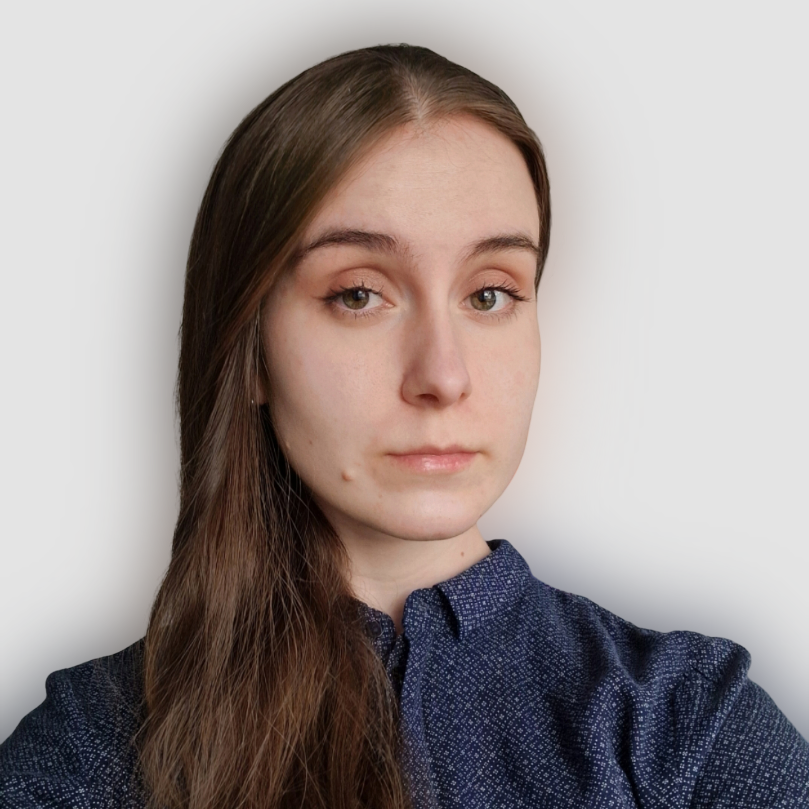
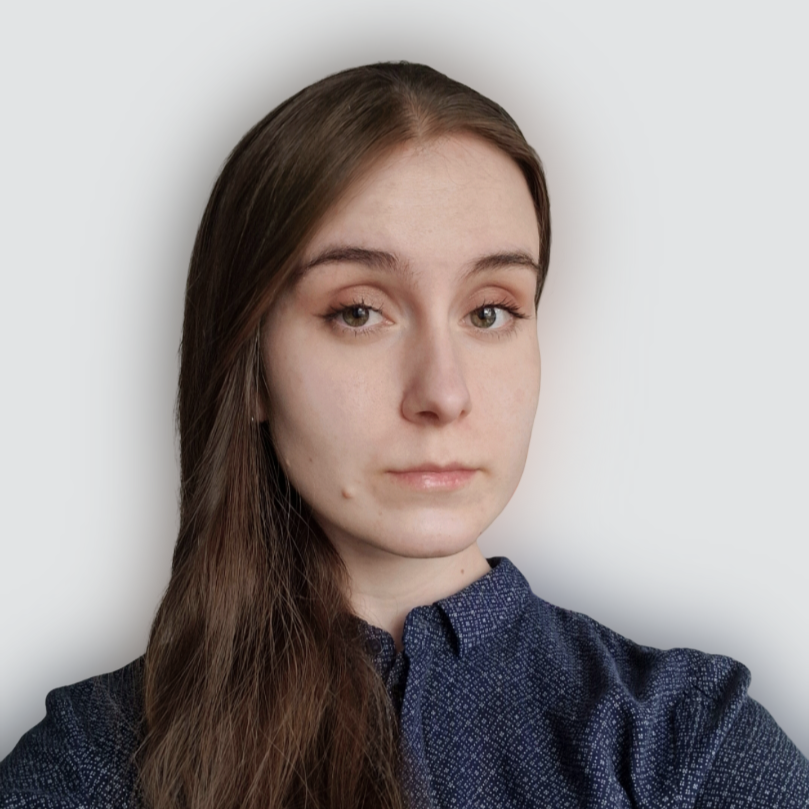
modified photos

Changed region(s): [[0.0, 0.0309, 1.0, 1.0], [0.6489, 0.4944, 0.6799, 0.5562]]

diff --git a/index.html b/index.html
@@ -49,7 +49,7 @@
       <h2 class="about__title" data-aos="fade-left">About me</h2>
       <hr class="section__title__hr">
       <div class="about__content">
-        <img src="about-photo.PNG" alt="" class="about__img">
+        <img src="about-photo2.PNG" alt="" class="about__img">
         <div class="about__text" data-aos="fade-left" data-aos-delay="100">
           <ul class="about__menu">
             <li id="about__link-summary" class="about__link">Summary</li>
@@ -65,13 +65,31 @@
           </div>
           <div class="about__experience">
             <p>
-              Lorem ipsum dolor sit, amet consectetur adipisicing elit. Laboriosam ipsum rerum quis maxime dicta libero nostrum quod soluta dignissimos perspiciatis illum, quasi sit? Cum nostrum eveniet quaerat officiis asperiores? Ut. Lorem ipsum dolor sit, amet consectetur adipisicing elit. Laboriosam ipsum rerum quis maxime dicta libero nostrum quod soluta dignissimos perspiciatis illum, quasi sit?
+              I graduated from Politechnika Bydgoska in 2024, specialized in Information Technologies. My university experience allowed me to learn my basics and get interested in programming. I took part in many student projects and an IT internship. For my final project I designed and developed a mobile app with minigames, made with Unity game engine. I received the highest grade on my diploma. After graduation I decided to take up web development.
             </p>
           </div>
           <div class="about__hobbies">
-            <p>
-              [ ] [ ] [ ] [ ] [ ] [ ] [ ] [ ] [ ] [ ] [ ] [ ] 
-            </p>
+            <h4>Outside of work, I'm interested in:</h4>
+            <div class="about__hobbies__items">
+              <div class="about__hobbies__item">
+                game dev
+              </div>
+              <div class="about__hobbies__item">
+                drawing
+              </div>
+              <div class="about__hobbies__item">
+                crocheting / handmade
+              </div>
+              <div class="about__hobbies__item">
+                comic books / manga
+              </div>
+              <div class="about__hobbies__item">
+                cartoons
+              </div>
+              <div class="about__hobbies__item">
+                3d modeling / printing
+              </div>
+            </div>
           </div>
         </div>
       </div>

diff --git a/css/components/about.css b/css/components/about.css
@@ -101,5 +101,21 @@
     width: 70ch;
     line-height: 1.5em;
     color: var(--color-light300);
+    flex-direction: column;
+}
+
+.about__hobbies__items {
+    display: grid;
+    grid-template-columns: 1fr 1fr 1fr;
+    grid-template-rows: 1fr 1fr 1fr;
+}
+
+.about__icon-container {
+    font-size: var(--size-s);
+}
+
+.about__icon {
+    width: var(--size-s);
+    height: var(--size-s);
 }
 
